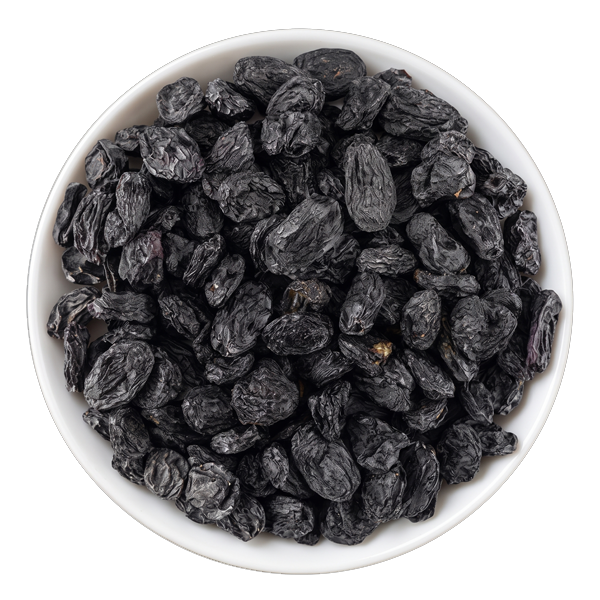
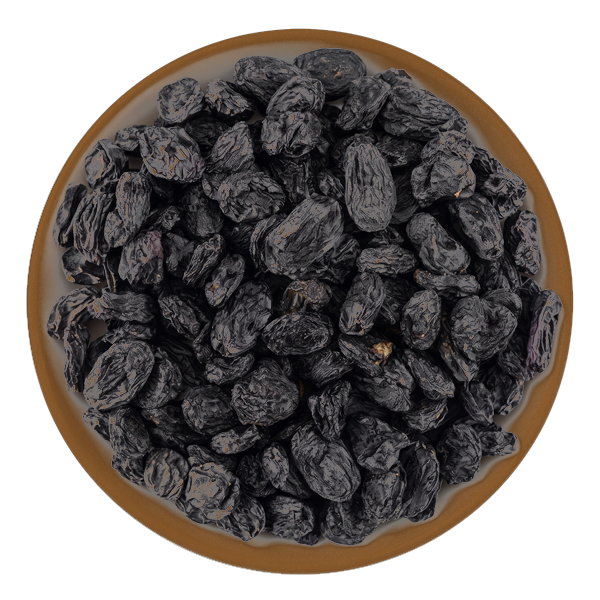
Drawer becomes the only cart; recolor white bowls brown in product photos
- Removed the /cart page: the slide-over drawer already shows products
  with quantity/remove controls, so View Full Cart is gone, old /cart
  URLs redirect to the shop, empty-checkout redirects to /shop, and
  product-page Buy Now goes straight to checkout.
- Recolored the white bowls to warm brown across 23 product photos
  (multiply-tint applied only to low-saturation bright pixels, so the
  produce itself is untouched). Verified per-image; phool makhana was
  left alone — its white puffs would have tinted with the bowl.

diff --git a/client/src/App.tsx b/client/src/App.tsx
@@ -1,5 +1,5 @@
 import type { ReactNode } from "react";
-import { Route, Routes } from "react-router-dom";
+import { Navigate, Route, Routes } from "react-router-dom";
 import { SiteHeader } from "./components/SiteHeader";
 import { SiteFooter } from "./components/SiteFooter";
 import { RequireAdmin } from "./components/RequireAdmin";
@@ -9,7 +9,6 @@ import { About } from "./pages/About";
 import { Contact } from "./pages/Contact";
 import { Blog } from "./pages/Blog";
 import { ProductDetail } from "./pages/ProductDetail";
-import { Cart } from "./pages/Cart";
 import { Checkout } from "./pages/Checkout";
 import { OrderConfirmed } from "./pages/OrderConfirmed";
 import { AdminLogin } from "./pages/admin/AdminLogin";
@@ -40,7 +39,8 @@ export default function App() {
       <Route path="/blog" element={<StorefrontLayout><Blog /></StorefrontLayout>} />
       <Route path="/contact" element={<StorefrontLayout><Contact /></StorefrontLayout>} />
       <Route path="/product/:slug" element={<StorefrontLayout><ProductDetail /></StorefrontLayout>} />
-      <Route path="/cart" element={<StorefrontLayout><Cart /></StorefrontLayout>} />
+      {/* The cart lives in the slide-over drawer; old /cart links go to the shop. */}
+      <Route path="/cart" element={<Navigate to="/shop" replace />} />
       <Route path="/checkout" element={<StorefrontLayout><Checkout /></StorefrontLayout>} />
       <Route
         path="/order-confirmed/:orderNumber"

diff --git a/client/src/pages/Checkout.tsx b/client/src/pages/Checkout.tsx
@@ -55,7 +55,7 @@ export function Checkout() {
   const paymentMethod: "COD" | "UPI" = upiConfig?.enabled ? "UPI" : "COD";
 
   if (lines.length === 0) {
-    return <Navigate to="/cart" replace />;
+    return <Navigate to="/shop" replace />;
   }
 
   const shippingInr = subtotalInr >= SHIPPING_THRESHOLD ? 0 : SHIPPING_FEE;
@@ -92,7 +92,7 @@ export function Checkout() {
         image="/images/hero_banner_4.jpg"
         title="Checkout"
         subtitle="Complete your shipping details to place your harvest order."
-        breadcrumbs={[{ label: "Cart", href: "/cart" }, { label: "Checkout" }]}
+        breadcrumbs={[{ label: "Shop", href: "/shop" }, { label: "Checkout" }]}
       />
 
       <div className="mx-auto max-w-5xl px-4 py-10 sm:px-6 font-roboto">

diff --git a/client/src/components/CartDrawer.tsx b/client/src/components/CartDrawer.tsx
@@ -143,12 +143,6 @@ export function CartDrawer({ open, onClose }: { open: boolean; onClose: () => vo
               >
                 Checkout — {formatInr(subtotalInr)}
               </button>
-              <button
-                onClick={() => goTo("/cart")}
-                className="mt-2 w-full rounded-full border border-gold-500/50 bg-cream-50 py-2.5 text-sm font-semibold text-brown-800 transition hover:border-gold-500 hover:bg-cream-100"
-              >
-                View Full Cart
-              </button>
             </div>
           </>
         )}

diff --git a/client/src/pages/ProductDetail.tsx b/client/src/pages/ProductDetail.tsx
@@ -82,7 +82,7 @@ export function ProductDetail() {
       productSlug: product.slug,
       categoryName: product.category.name,
     });
-    navigate("/cart");
+    navigate("/checkout");
   }
 
   return (
